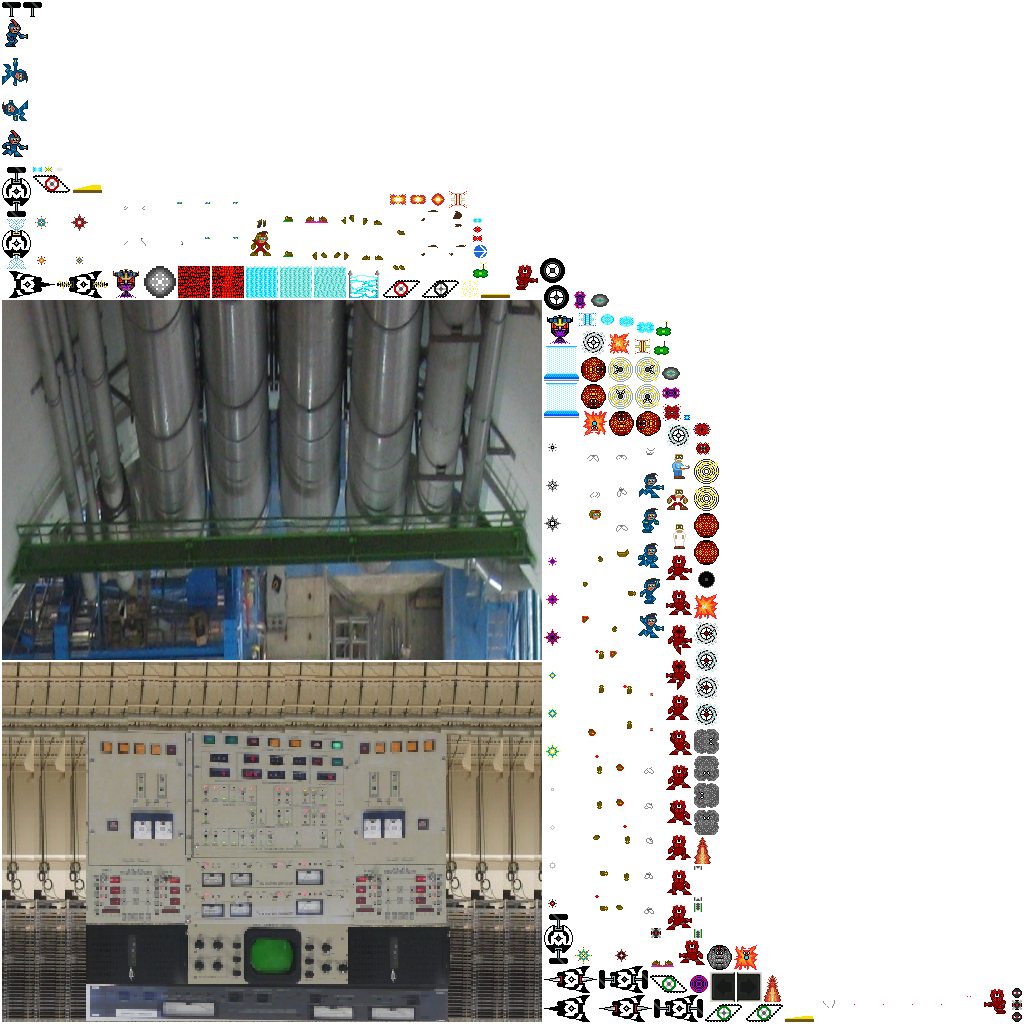
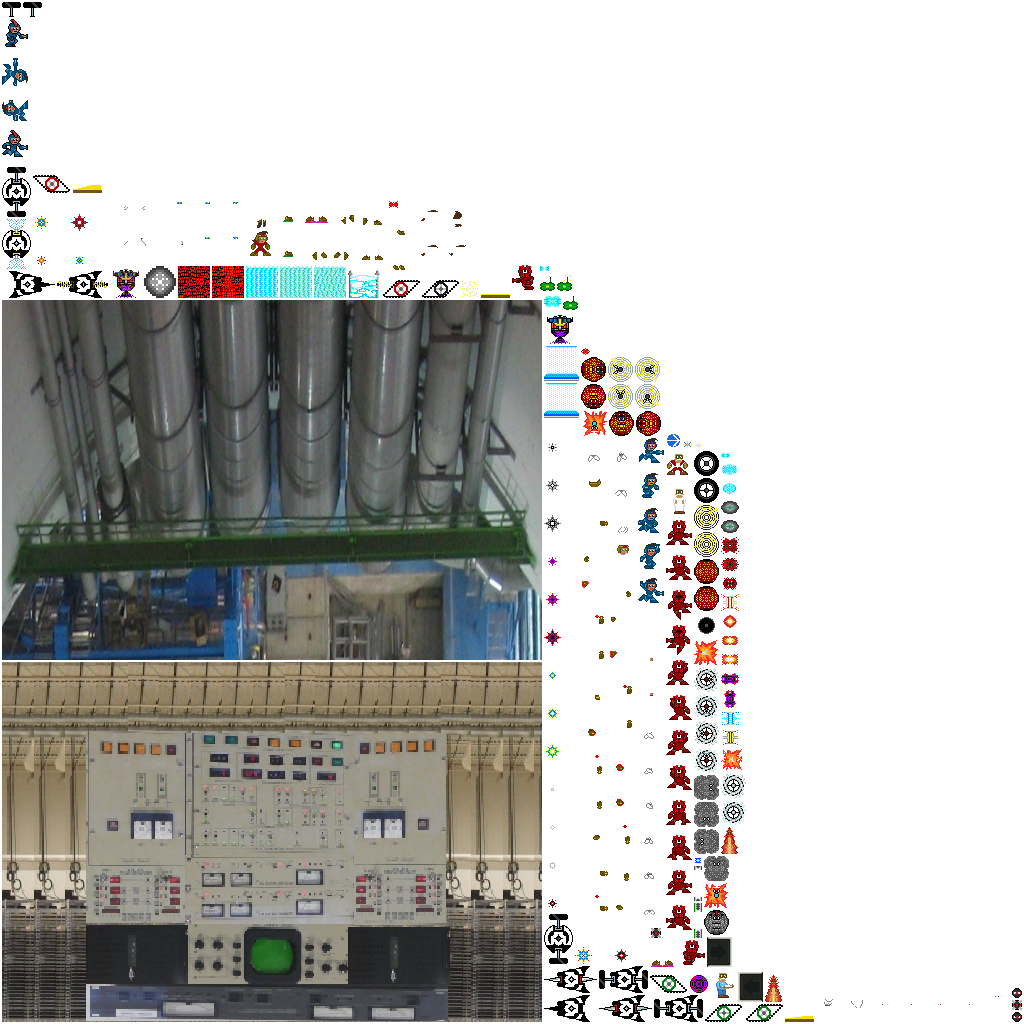
added rush sprite and animations; implemented within getters called from rush render condition

diff --git a/core/src/com/udacity/gamedev/gigagal/entity/Avatar.java b/core/src/com/udacity/gamedev/gigagal/entity/Avatar.java
@@ -1657,33 +1657,18 @@ public class Avatar extends Entity implements Impermeable, Humanoid {
             }
         } else {
             if (bladeState == BladeState.RUSH) {
-                if (inputControls.rightButtonPressed) {
-                    torso = AssetManager.getInstance().getAvatarAssets().midsection;
-                    legs = AssetManager.getInstance().getAvatarAssets().legsStride.getKeyFrame(swipeTimeSeconds);
-                    rearArm = getRearHand(AssetManager.getInstance().getAvatarAssets().armSwing.getKeyFrame(swipeTimeSeconds));
-                    frontArm = AssetManager.getInstance().getAvatarAssets().obfuscated;
-                    hair = AssetManager.getInstance().getAvatarAssets().hair.getKeyFrame(swipeTimeSeconds);
-                    head = AssetManager.getInstance().getAvatarAssets().head;
-                    mouth = AssetManager.getInstance().getAvatarAssets().mouthOpen;
-                    eyes = AssetManager.getInstance().getAvatarAssets().eyesBlink;
-                    waist =  AssetManager.getInstance().getAvatarAssets().waist.getKeyFrame(3);
-                    rearHand = AssetManager.getInstance().getAvatarAssets().obfuscated;
-                    frontHand = AssetManager.getInstance().getAvatarAssets().obfuscated;
-                    feet = AssetManager.getInstance().getAvatarAssets().feetStride.getKeyFrame(swipeTimeSeconds);
-                } else if (inputControls.leftButtonPressed) {
-                    torso = AssetManager.getInstance().getAvatarAssets().midsection;
-                    legs = AssetManager.getInstance().getAvatarAssets().legsStride.getKeyFrame(swipeTimeSeconds);
-                    rearArm = getRearHand(AssetManager.getInstance().getAvatarAssets().armSwing.getKeyFrame(swipeTimeSeconds));
-                    frontArm = AssetManager.getInstance().getAvatarAssets().obfuscated;
-                    hair = AssetManager.getInstance().getAvatarAssets().hair.getKeyFrame(swipeTimeSeconds);
-                    head = AssetManager.getInstance().getAvatarAssets().head;
-                    mouth = AssetManager.getInstance().getAvatarAssets().mouthOpen;
-                    eyes = AssetManager.getInstance().getAvatarAssets().eyesBlink;
-                    waist =  AssetManager.getInstance().getAvatarAssets().waist.getKeyFrame(3);
-                    rearHand = AssetManager.getInstance().getAvatarAssets().obfuscated;
-                    frontHand = AssetManager.getInstance().getAvatarAssets().obfuscated;
-                    feet = AssetManager.getInstance().getAvatarAssets().feetStride.getKeyFrame(swipeTimeSeconds);
-                }
+                torso = AssetManager.getInstance().getAvatarAssets().midsection;
+                legs = AssetManager.getInstance().getAvatarAssets().legsStride.getKeyFrame(swipeTimeSeconds);
+                rearArm = AssetManager.getInstance().getAvatarAssets().armReach;
+                frontArm = getFrontArm(AssetManager.getInstance().getAvatarAssets().obfuscated);
+                hair = AssetManager.getInstance().getAvatarAssets().hair.getKeyFrame(swipeTimeSeconds);
+                head = AssetManager.getInstance().getAvatarAssets().head;
+                mouth = AssetManager.getInstance().getAvatarAssets().mouthOpen;
+                eyes = AssetManager.getInstance().getAvatarAssets().eyesBlink;
+                waist =  AssetManager.getInstance().getAvatarAssets().waist.getKeyFrame(3);
+                rearHand = AssetManager.getInstance().getAvatarAssets().handReach;
+                frontHand = getFrontHand(shoot, AssetManager.getInstance().getAvatarAssets().obfuscated);
+                feet = AssetManager.getInstance().getAvatarAssets().feetStride.getKeyFrame(swipeTimeSeconds);
             } else if (bladeState == BladeState.CUT) {
                 torso = AssetManager.getInstance().getAvatarAssets().midsection;
                 legs = AssetManager.getInstance().getAvatarAssets().legsStride.getKeyFrame(swipeTimeSeconds);
@@ -1712,7 +1697,6 @@ public class Avatar extends Entity implements Impermeable, Humanoid {
                 } else {
                     rotation *= 0;
                 }
-                Gdx.app.log(TAG, center.toString() + rotation + " " + directionX + (inverseX ^ inverseY));
                 torso = AssetManager.getInstance().getAvatarAssets().midsection;
                 legs = AssetManager.getInstance().getAvatarAssets().legsStride.getKeyFrame(swipeTimeSeconds);
                 rearArm = getRearArm(AssetManager.getInstance().getAvatarAssets().obfuscated);
@@ -1768,13 +1752,19 @@ public class Avatar extends Entity implements Impermeable, Humanoid {
         TextureRegion shoot = AssetManager.getInstance().getAvatarAssets().armPoint;
         float frame = (bladeState == BladeState.RETRACTED ? 3 : swipeTimeSeconds);
         float multiplier = (bladeState == BladeState.CUT ? 10 : 1);
-        if (lookStartTime != 0) {
+        if (bladeState == BladeState.RUSH) {
+            if (inputControls.leftButtonPressed) {
+                nonShoot = AssetManager.getInstance().getAvatarAssets().armPull.getKeyFrame(swipeTimeSeconds);
+            } else {
+                nonShoot = AssetManager.getInstance().getAvatarAssets().armPush.getKeyFrame(swipeTimeSeconds);
+            }
+        } else if (lookStartTime != 0) {
             if (directionY == Direction.UP) {
                 shoot = AssetManager.getInstance().getAvatarAssets().armRaise;
-                nonShoot =  AssetManager.getInstance().getAvatarAssets().uparm.getKeyFrame(frame * multiplier);
+                nonShoot =  AssetManager.getInstance().getAvatarAssets().armUp.getKeyFrame(frame * multiplier);
             } else {
                 shoot = AssetManager.getInstance().getAvatarAssets().armLower;
-                nonShoot = AssetManager.getInstance().getAvatarAssets().downarm.getKeyFrame(frame * multiplier);
+                nonShoot = AssetManager.getInstance().getAvatarAssets().armDown.getKeyFrame(frame * multiplier);
             }
         }
         if (inputControls.shootButtonPressed) {
@@ -1787,13 +1777,19 @@ public class Avatar extends Entity implements Impermeable, Humanoid {
     private TextureRegion getFrontHand(Animation shoot, TextureRegion nonShoot) {
         float frame = (bladeState == BladeState.RETRACTED ? 3 : swipeTimeSeconds);
         float multiplier = (bladeState == BladeState.CUT ? 10 : 1);
-        if (lookStartTime != 0) {
+        if (bladeState == BladeState.RUSH) {
+            if (inputControls.leftButtonPressed) {
+                nonShoot = AssetManager.getInstance().getAvatarAssets().handBack.getKeyFrame(swipeTimeSeconds);
+            } else {
+                nonShoot = AssetManager.getInstance().getAvatarAssets().handFore.getKeyFrame(swipeTimeSeconds);
+            }
+        } else if (lookStartTime != 0) {
             if (directionY == Direction.UP) {
                 shoot = AssetManager.getInstance().getAvatarAssets().handRaise;
-                nonShoot =  AssetManager.getInstance().getAvatarAssets().uphand.getKeyFrame(frame * multiplier);
+                nonShoot = AssetManager.getInstance().getAvatarAssets().handUp.getKeyFrame(frame * multiplier);
             } else {
                 shoot = AssetManager.getInstance().getAvatarAssets().handLower;
-                nonShoot = AssetManager.getInstance().getAvatarAssets().downhand.getKeyFrame(frame * multiplier);
+                nonShoot = AssetManager.getInstance().getAvatarAssets().handDown.getKeyFrame(frame * multiplier);
             }
         }
         if (inputControls.shootButtonPressed) {

diff --git a/core/src/com/udacity/gamedev/gigagal/util/AssetManager.java b/core/src/com/udacity/gamedev/gigagal/util/AssetManager.java
@@ -161,7 +161,11 @@ public final class AssetManager implements AssetErrorListener {
         public final Animation hair;
         public final Animation waist;
         public final Animation armCurl;
+        public final Animation armPush;
+        public final Animation armPull;
         public final Animation armSwing;
+        public final Animation armDown;
+        public final Animation armUp;
         public final Animation handCurl;
         public final Animation handSwing;
         public final Animation handRappel;
@@ -169,6 +173,10 @@ public final class AssetManager implements AssetErrorListener {
         public final Animation handPoint;
         public final Animation handRaise;
         public final Animation handLower;
+        public final Animation handBack;
+        public final Animation handFore;
+        public final Animation handDown;
+        public final Animation handUp;
         public final Animation legsStride;
         public final Animation feetDash;
         public final Animation feetStride;
@@ -177,12 +185,6 @@ public final class AssetManager implements AssetErrorListener {
 
         public final AtlasRegion stand;
         public final AtlasRegion fall;
-        public final Animation forehand;
-        public final Animation backhand;
-        public final Animation downhand;
-        public final Animation uphand;
-        public final Animation downarm;
-        public final Animation uparm;
 
         private AvatarAssets(TextureAtlas atlas) {
             armClench = atlas.findRegion(Constants.ARM_CLENCH);
@@ -266,6 +268,11 @@ public final class AssetManager implements AssetErrorListener {
             armCurlFrames.add(atlas.findRegion(Constants.ARM_POINT));
             armCurl = new Animation(Constants.STRIDE_FRAME_DURATION, armCurlFrames, PlayMode.LOOP);
 
+            Array<AtlasRegion> armPullFrames = new Array<AtlasRegion>(armCurlFrames);
+            armPullFrames.add(atlas.findRegion(Constants.ARM_POINT));
+            armPush = new Animation(Constants.STRIDE_FRAME_DURATION, armCurlFrames, PlayMode.NORMAL);
+            armPull = new Animation(Constants.STRIDE_FRAME_DURATION, armCurlFrames, PlayMode.REVERSED);
+
             Array<AtlasRegion> handCurlFrames = new Array<AtlasRegion>();
             handCurlFrames.add(atlas.findRegion(Constants.HAND_RELEASE));
             handCurlFrames.add(atlas.findRegion(Constants.HAND_CURL));
@@ -314,30 +321,29 @@ public final class AssetManager implements AssetErrorListener {
             stand = atlas.findRegion(Constants.STAND);
             fall = atlas.findRegion(Constants.FALL);
 
-            Array<AtlasRegion> rushFrames = new Array<AtlasRegion>();
-            rushFrames.add(atlas.findRegion(Constants.SIDESWIPE_1));
-            rushFrames.add(atlas.findRegion(Constants.SIDESWIPE_2));
-            rushFrames.add(atlas.findRegion(Constants.SIDESWIPE_3));
-            rushFrames.add(atlas.findRegion(Constants.SIDESWIPE_3));
-            forehand = new Animation(Constants.STRIDE_FRAME_DURATION, rushFrames, PlayMode.NORMAL);
-
-            backhand = new Animation(Constants.STRIDE_FRAME_DURATION, rushFrames, PlayMode.REVERSED);
-
             Array<AtlasRegion> downhandFrames = new Array<AtlasRegion>();
             downhandFrames.add(atlas.findRegion(Constants.HAND_RAISE));
             downhandFrames.add(atlas.findRegion(Constants.HAND_SHOOT));
             downhandFrames.add(atlas.findRegion(Constants.HAND_LOWER));
-            downhand = new Animation(Constants.FLIPSWIPE_FRAME_DURATION, downhandFrames, PlayMode.NORMAL);
+            handDown = new Animation(Constants.FLIPSWIPE_FRAME_DURATION, downhandFrames, PlayMode.NORMAL);
 
-            uphand = new Animation(Constants.FLIPSWIPE_FRAME_DURATION, downhandFrames, PlayMode.REVERSED);
+            handUp = new Animation(Constants.FLIPSWIPE_FRAME_DURATION, downhandFrames, PlayMode.REVERSED);
 
             Array<AtlasRegion> downarmFrames = new Array<AtlasRegion>();
             downarmFrames.add(atlas.findRegion(Constants.ARM_RAISE));
             downarmFrames.add(atlas.findRegion(Constants.ARM_POINT));
             downarmFrames.add(atlas.findRegion(Constants.ARM_LOWER));
-            downarm = new Animation(Constants.FLIPSWIPE_FRAME_DURATION, downarmFrames, PlayMode.NORMAL);
+            armDown = new Animation(Constants.FLIPSWIPE_FRAME_DURATION, downarmFrames, PlayMode.NORMAL);
 
-            uparm = new Animation(Constants.FLIPSWIPE_FRAME_DURATION, downarmFrames, PlayMode.REVERSED);
+            armUp = new Animation(Constants.FLIPSWIPE_FRAME_DURATION, downarmFrames, PlayMode.REVERSED);
+
+            Array<AtlasRegion> handAcrossFrames = new Array<AtlasRegion>();
+            handAcrossFrames.add(atlas.findRegion(Constants.HAND_SHOOT));
+            handAcrossFrames.add(atlas.findRegion(Constants.HAND_OUTWARD));
+            handAcrossFrames.add(atlas.findRegion(Constants.HAND_CURL));
+            handBack = new Animation(Constants.SIDESWIPE_FRAME_DURATION, handAcrossFrames, PlayMode.NORMAL);
+
+            handFore = new Animation(Constants.SIDESWIPE_FRAME_DURATION, handAcrossFrames, PlayMode.REVERSED);
         }
     }
 

diff --git a/core/src/com/udacity/gamedev/gigagal/util/Constants.java b/core/src/com/udacity/gamedev/gigagal/util/Constants.java
@@ -125,6 +125,7 @@ public final class Constants {
     public static final String HAND_RELAX = "avatar-hand-relax";
     public static final String HAND_CLENCH = "avatar-hand-clench";
     public static final String HAND_CURL = "avatar-hand-curl";
+    public static final String HAND_OUTWARD = "avatar-hand-outward";
     public static final String HAND_SHOOT = "avatar-hand-shoot";
     public static final String HAND_RAISE = "avatar-hand-raise";
     public static final String HAND_RAISE_0 = "avatar-hand-raise-0";
